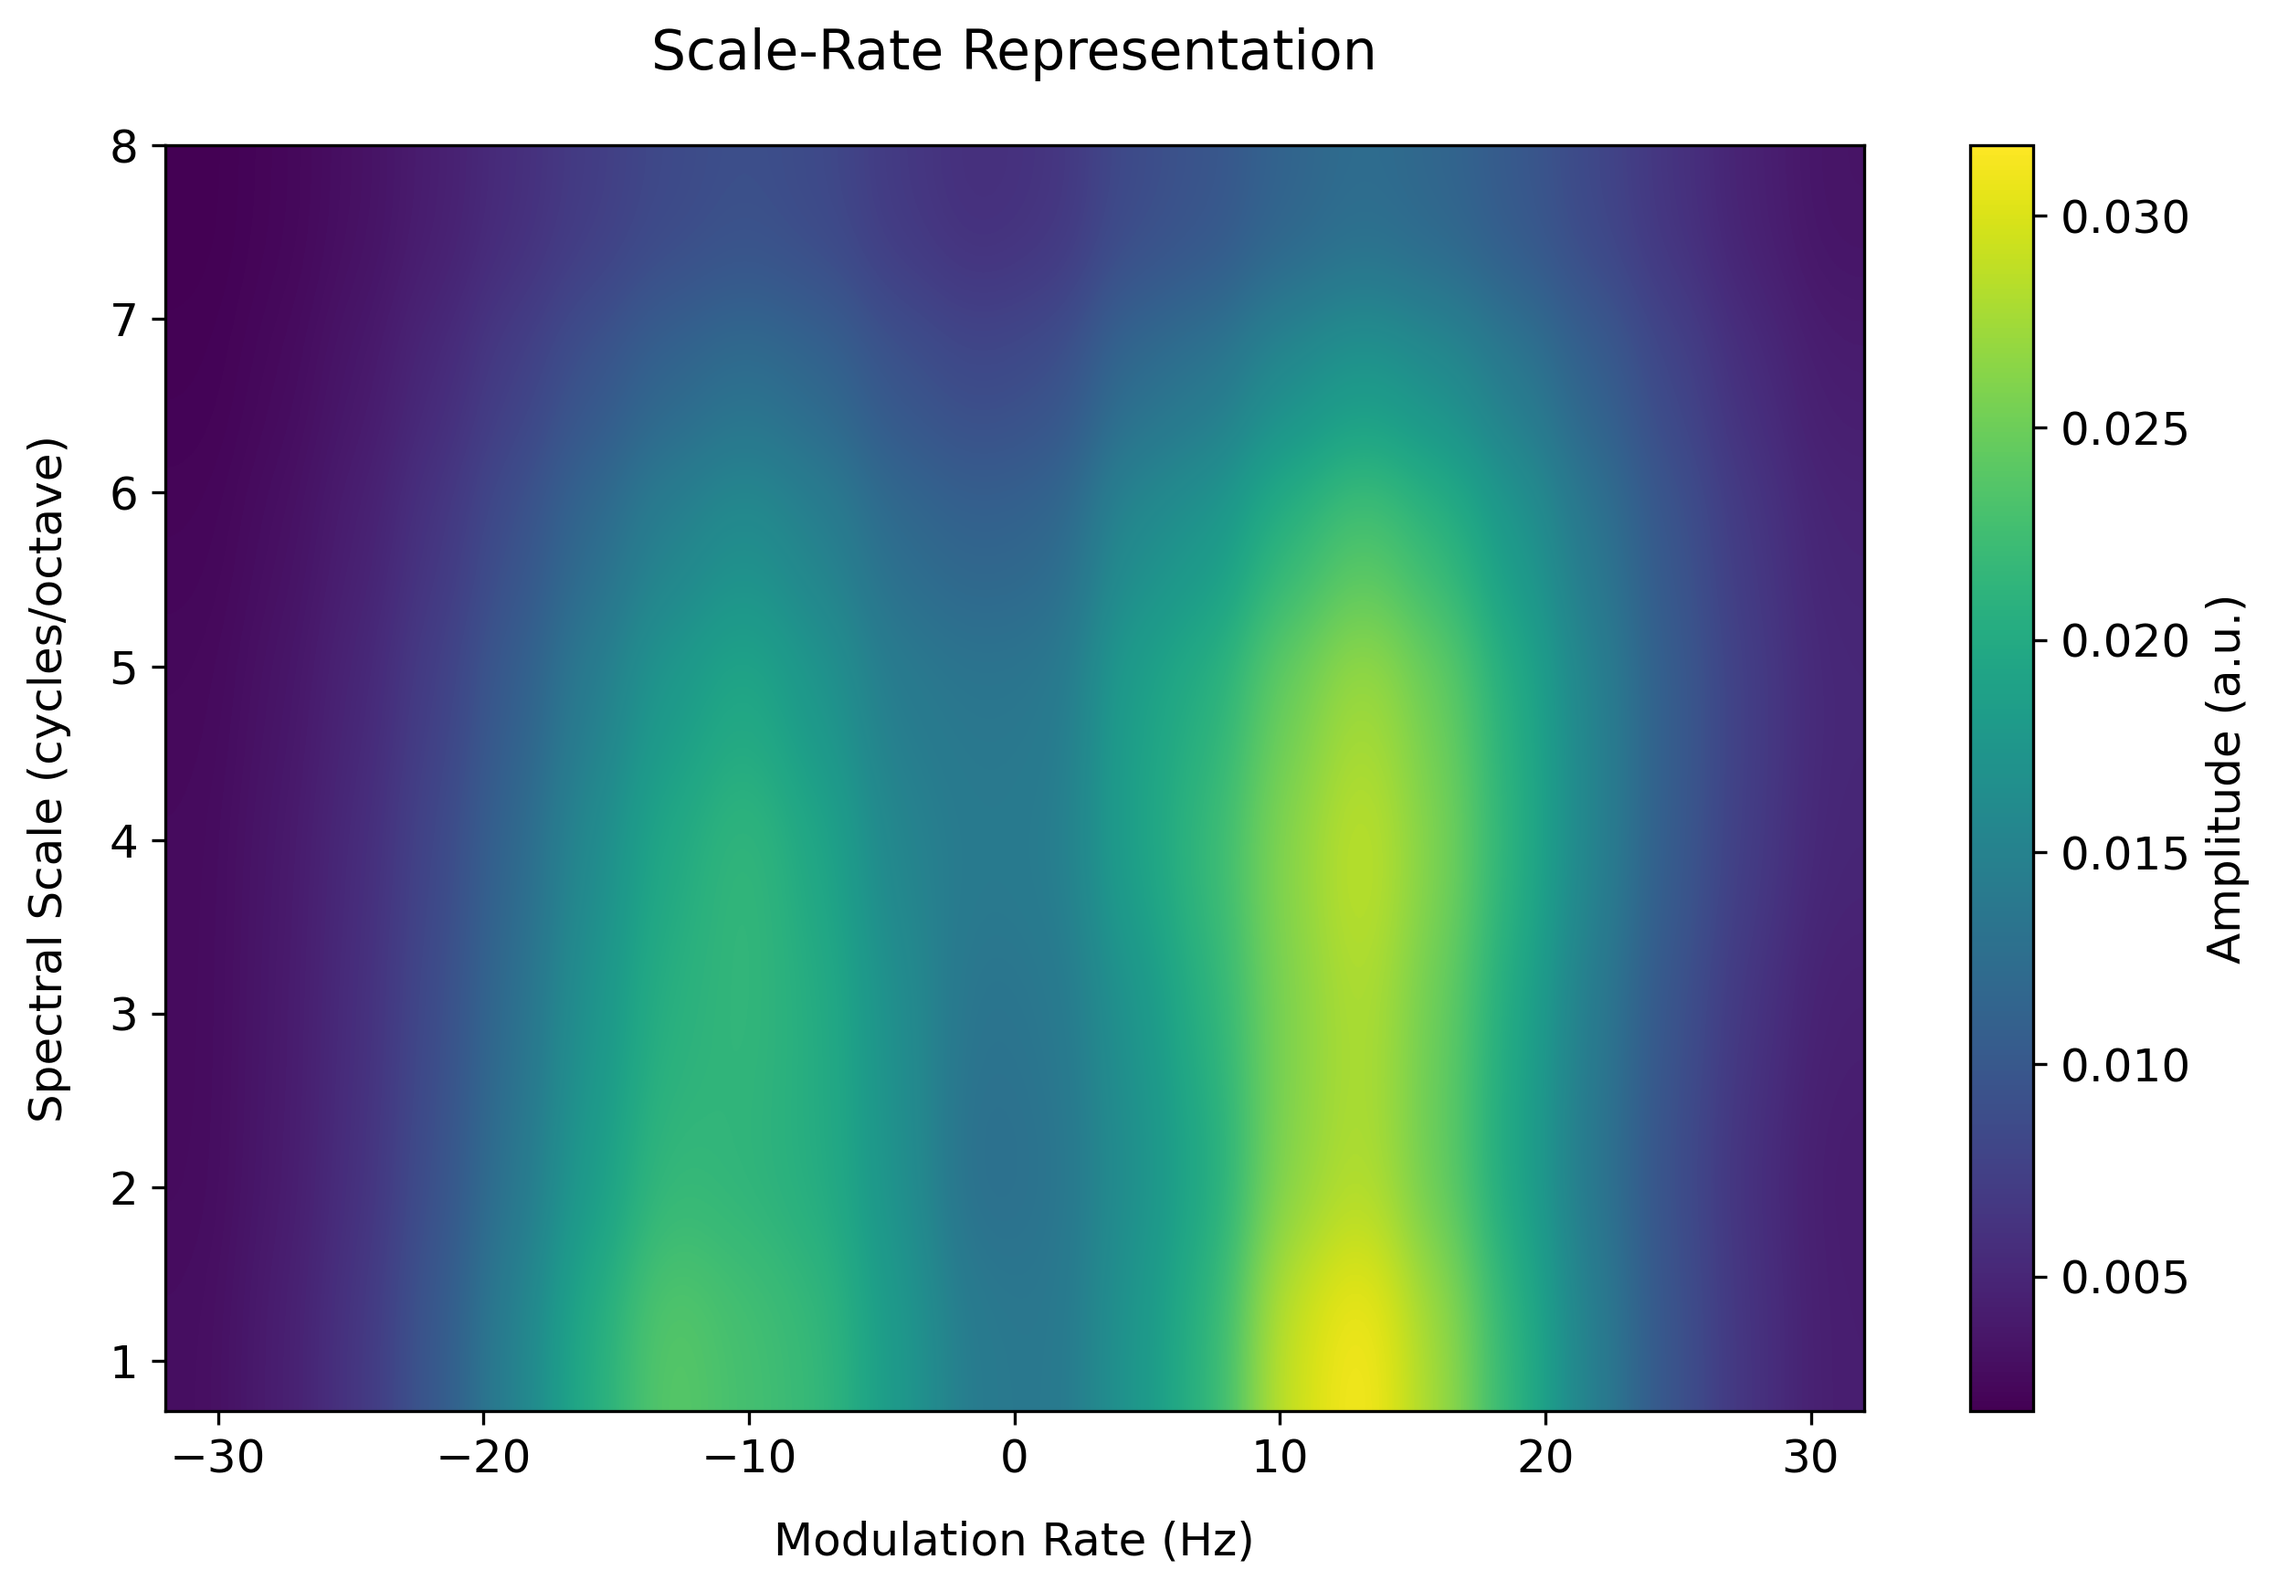
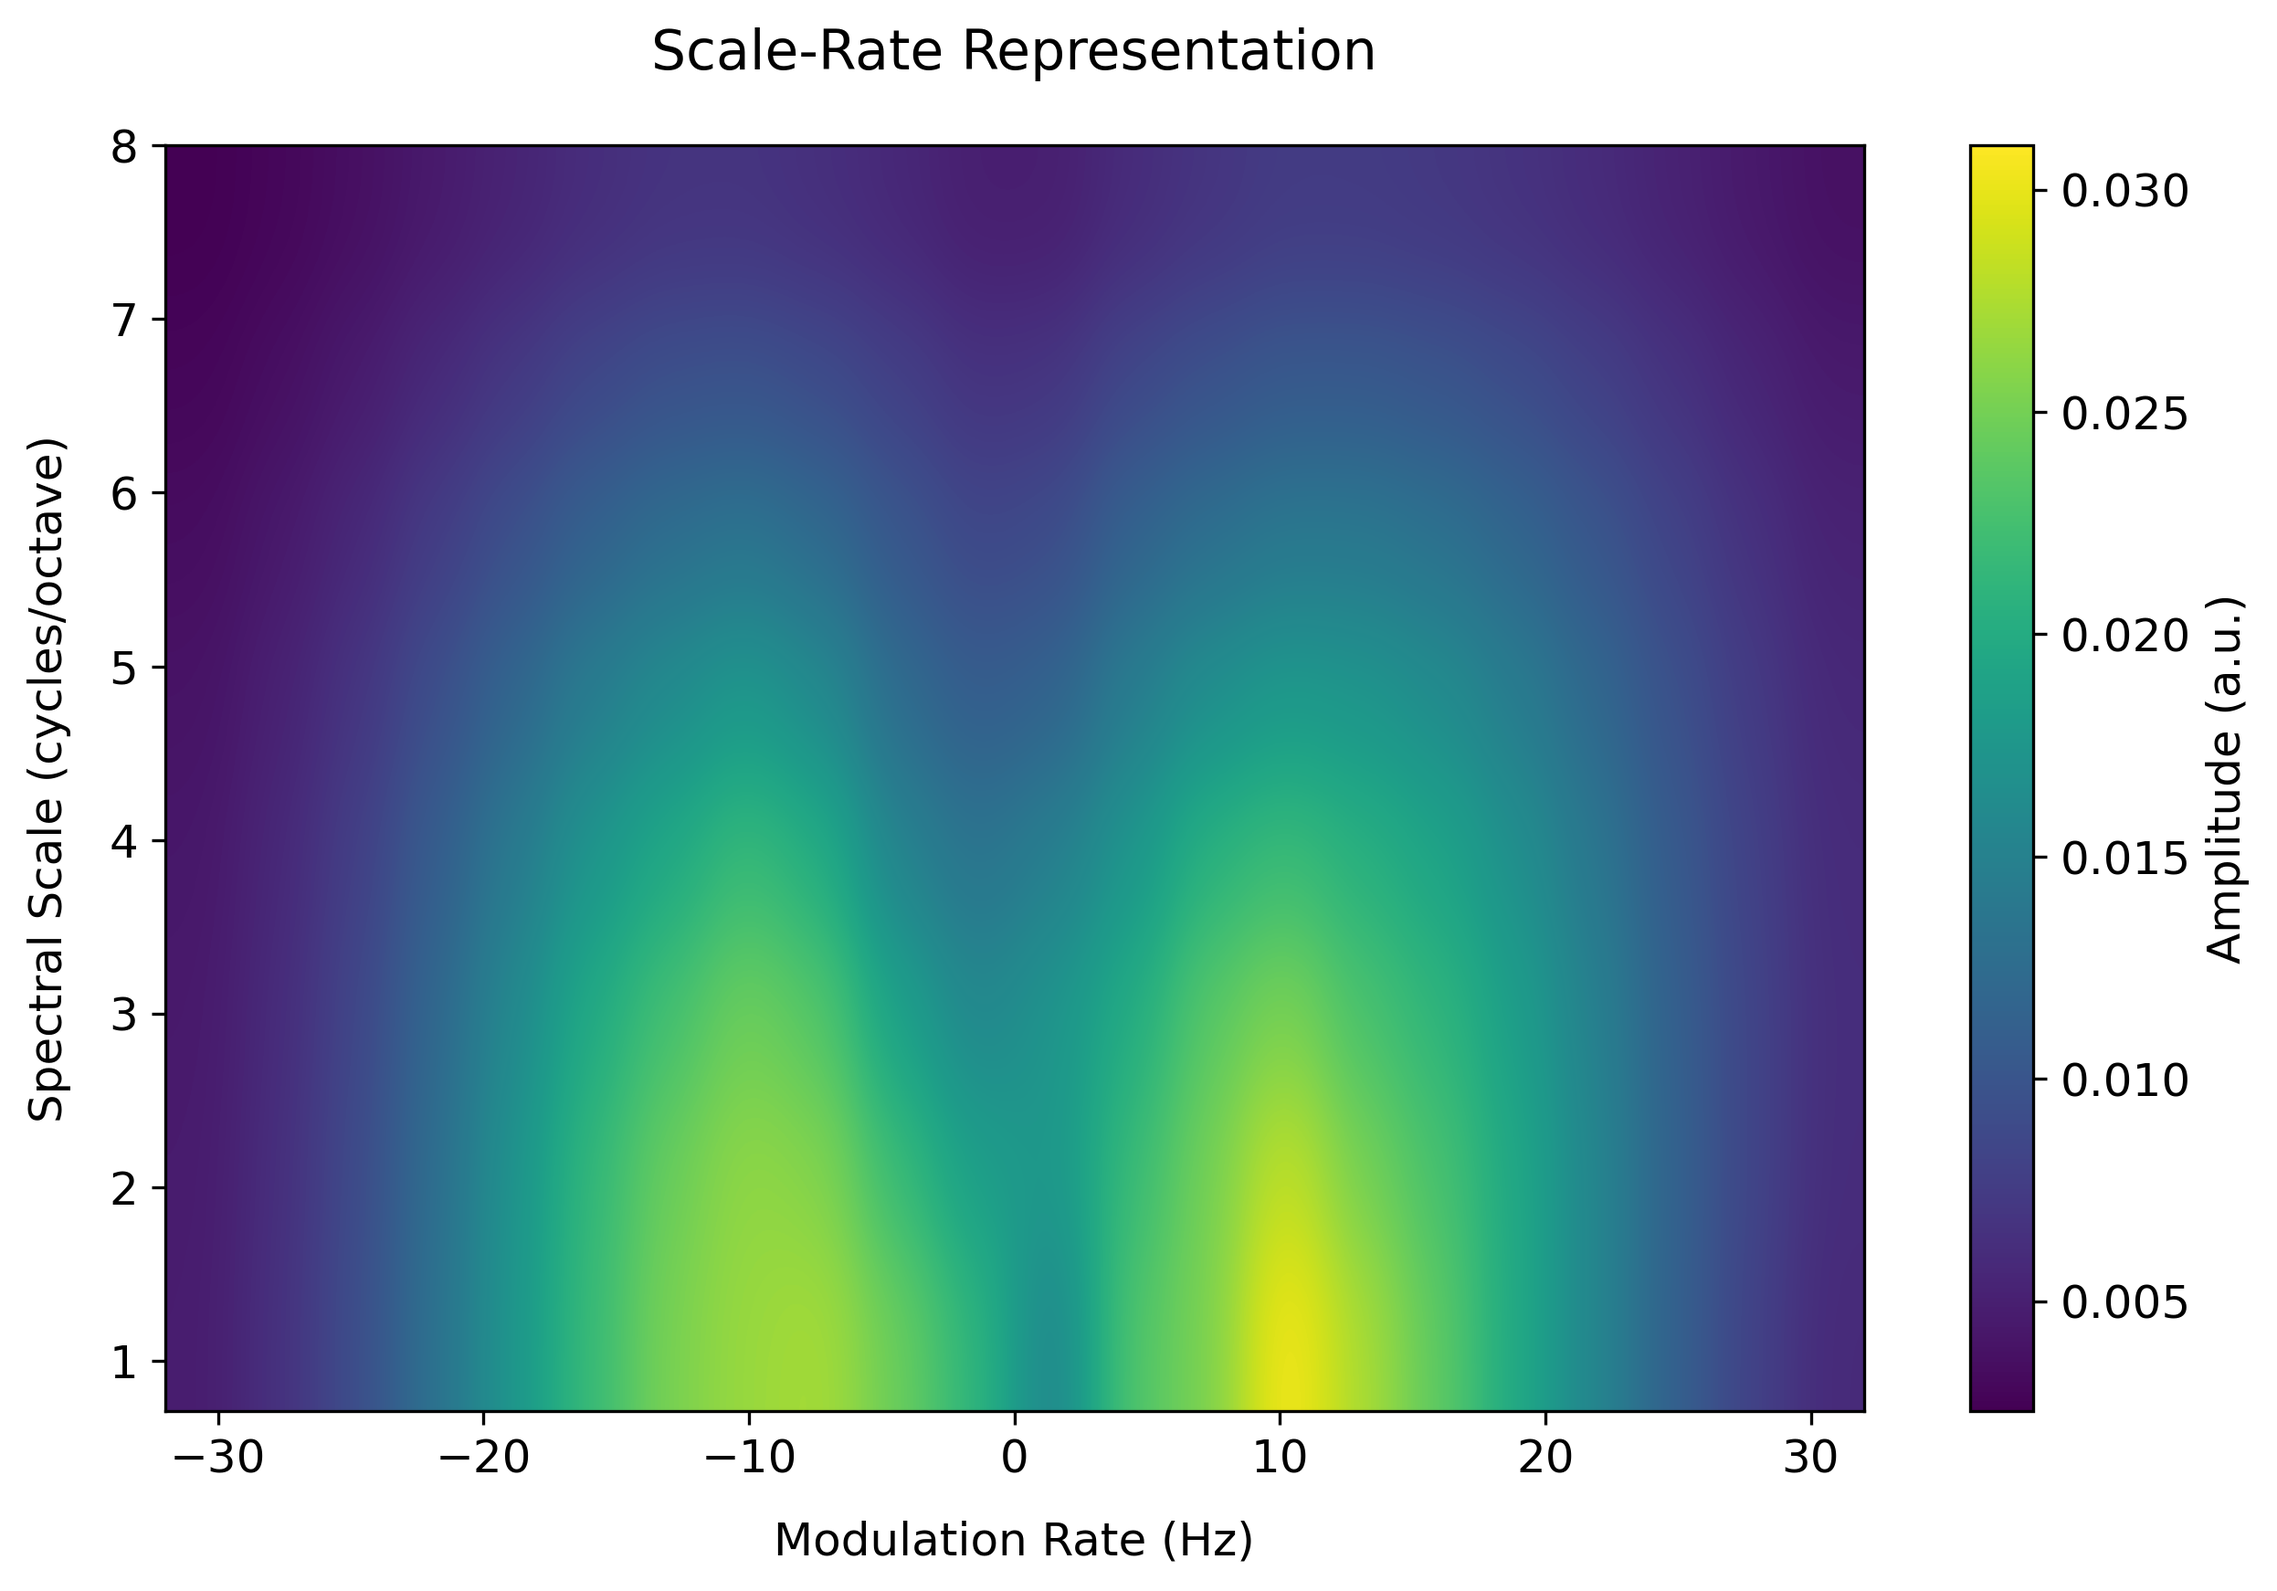
add: request plot of STRF to the Client
update: STRF images

send plots from directory

diff --git a/server.py b/server.py
@@ -3,7 +3,7 @@ from feature_extraction.run_extraction import feature_extract_segments
 from preprocess.preprocess import preprocess_audio
 import sys
 from werkzeug.utils import secure_filename
-from flask import Flask, request, jsonify
+from flask import Flask, request, jsonify, send_from_directory
 from flask_cors import CORS
 from pydub import AudioSegment
 from pathlib import Path
@@ -14,6 +14,7 @@ import pickle
 import numpy as np
 from scipy.special import softmax
 from sklearn.metrics import balanced_accuracy_score
+import os
 
 sys.path.append("preprocess/")
 sys.path.append("feature_extraction/")
@@ -52,7 +53,6 @@ class Classification:
             }
         )
 
-
 @app.route("/upload", methods=["POST"])
 def Upload():
     if "audio" not in request.files:
@@ -79,6 +79,12 @@ def Upload():
         jsonify({"error": "There was a problem saving the file"}),
         HTTPStatus.INTERNAL_SERVER_ERROR,
     )
+
+@app.route('/plots/<path:filename>')
+def get_plot(filename):
+    print(f"Requesting plot: {filename}")
+    path = os.path.abspath('feature_analysis/strf_plots/')
+    return send_from_directory(path, filename)
 
 
 def predict_features(features, svm, pca):
